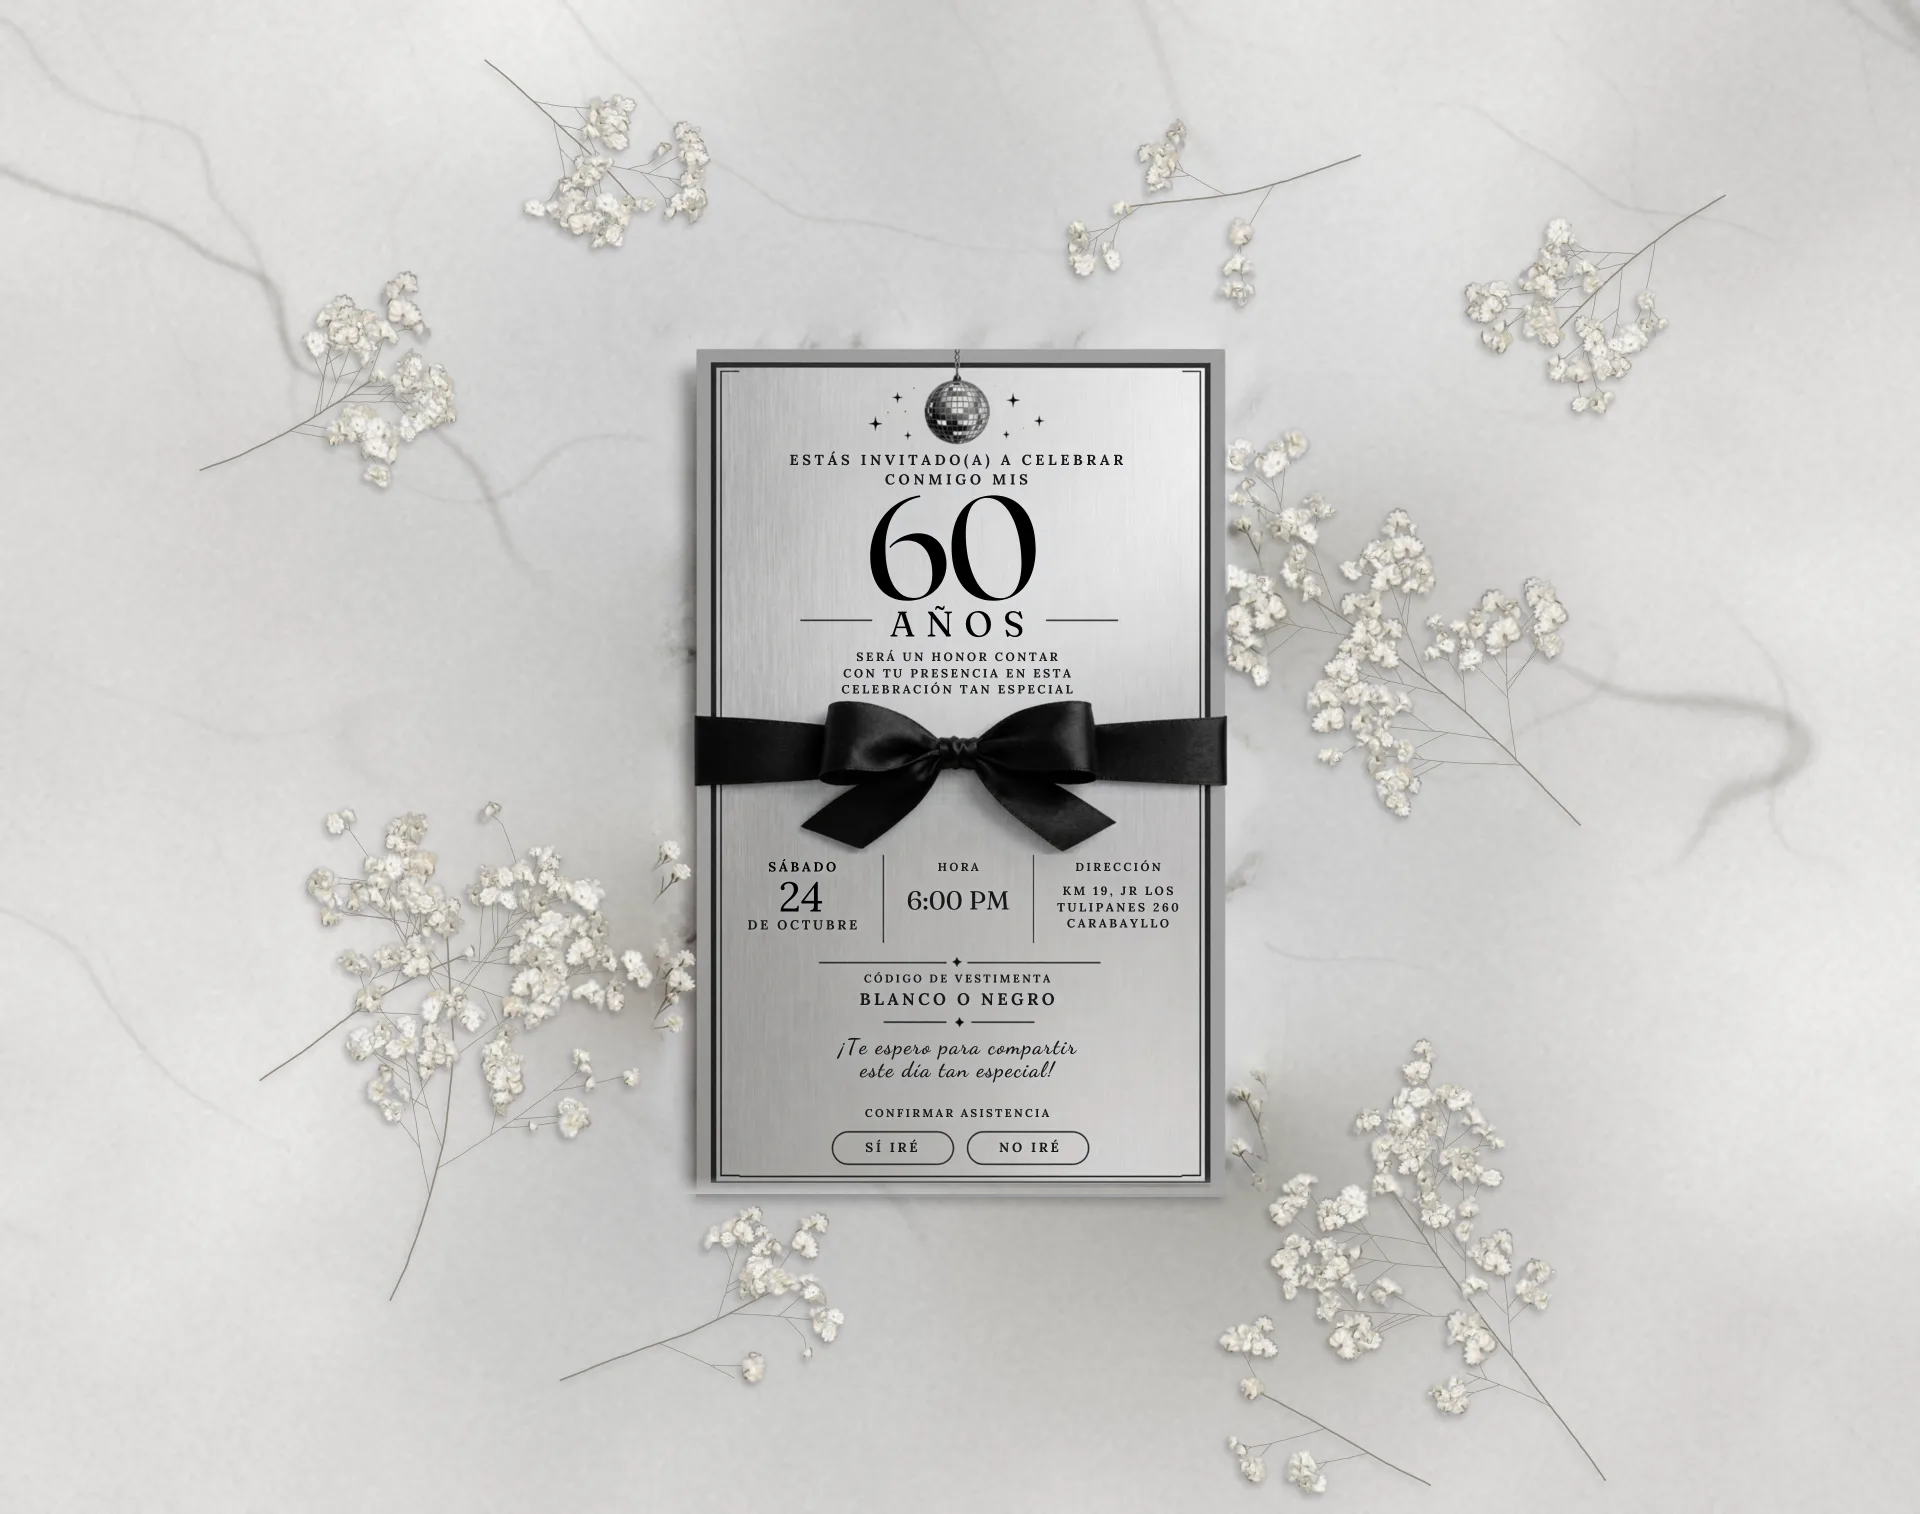
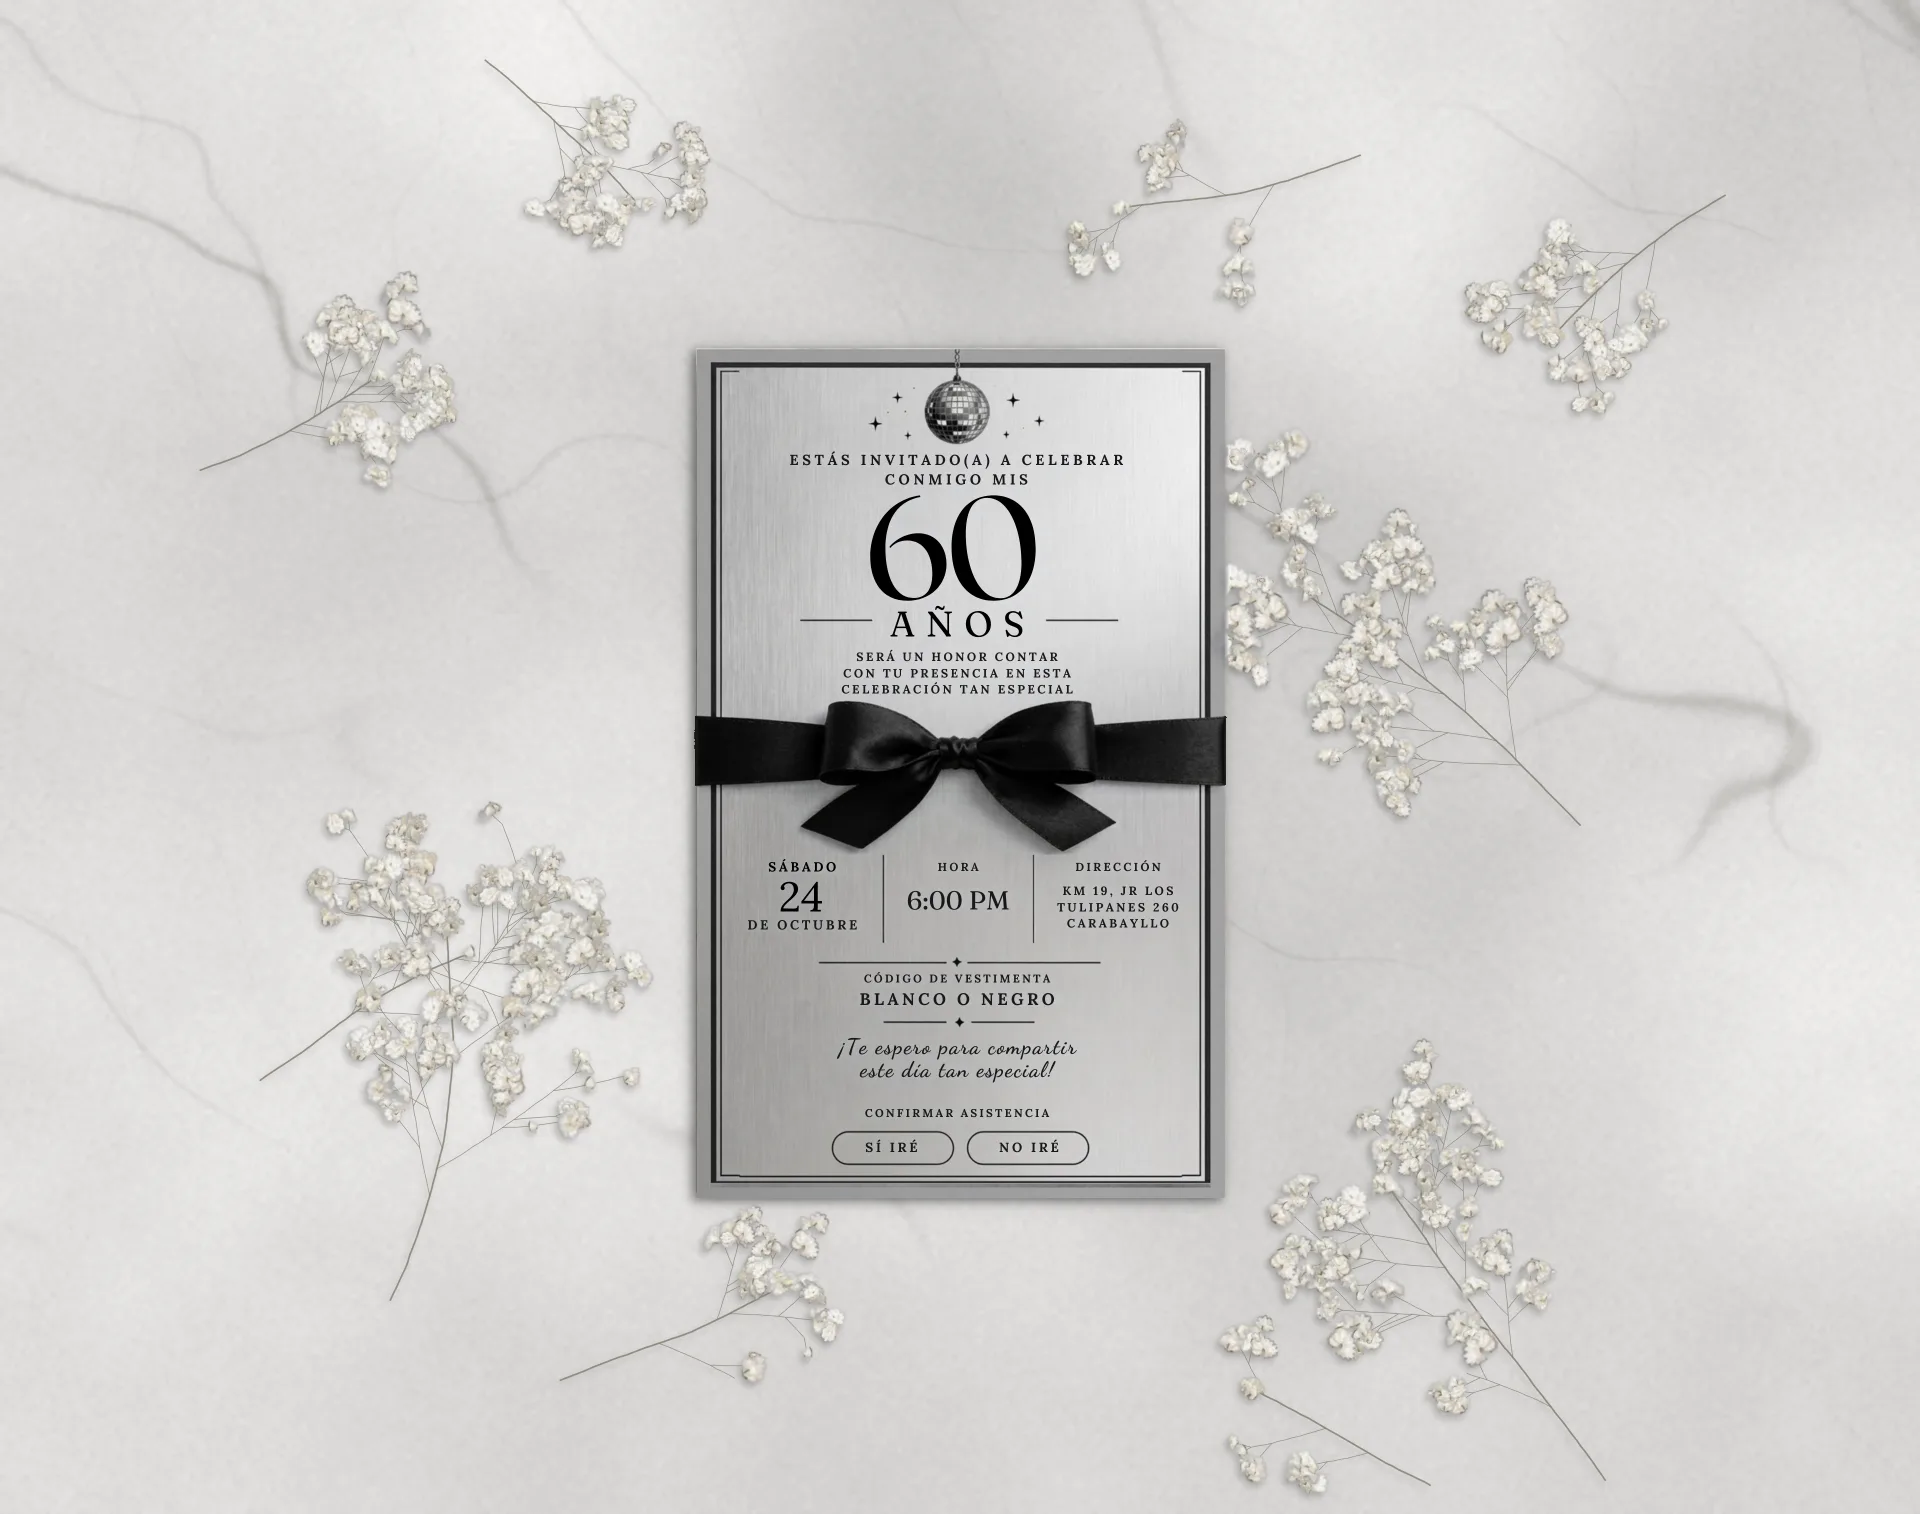
Make marble uniform around the card
The design's own marble margins were darker and still held the cut-off
flowers, leaving a visible band next to the card. Only the card is now
taken from the design; all surrounding marble, flowers and the card's
drop shadow come from the generated scene.

diff --git a/src/app/globals.css b/src/app/globals.css
@@ -51,11 +51,11 @@ body {
   pointer-events: none;
 }
 
-/* La tarjeta nítida se funde con la escena en los márgenes de mármol. */
+/* De la imagen nítida solo se muestra la tarjeta; el mármol y las flores salen de la escena. */
 .invitation-base {
   mask-image:
-    linear-gradient(to right, transparent calc(var(--u) * 58), #000 calc(var(--u) * 90), #000 calc(var(--u) * 1153), transparent calc(var(--u) * 1185)),
-    linear-gradient(to bottom, transparent calc(var(--u) * 28), #000 calc(var(--u) * 56));
+    linear-gradient(to right, transparent calc(var(--u) * 92), #000 calc(var(--u) * 94), #000 calc(var(--u) * 1149), transparent calc(var(--u) * 1151)),
+    linear-gradient(to bottom, transparent calc(var(--u) * 56), #000 calc(var(--u) * 58));
   mask-composite: intersect;
 }
 
